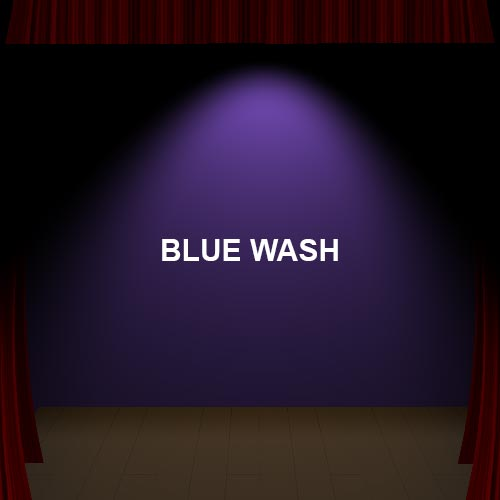
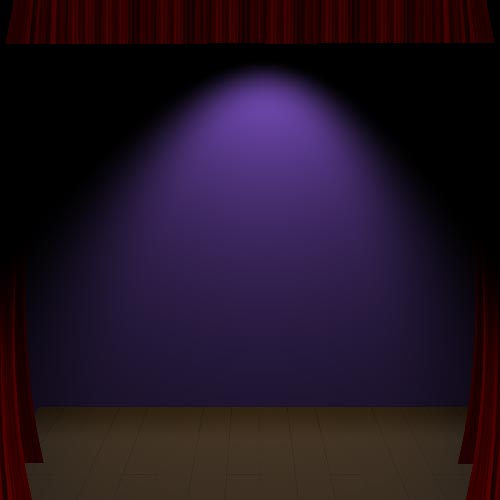
animated gif test
added anim gif as test instead of mp4 video in lfx

Changed region(s): [[0.3, 0.48, 0.69, 0.54]]

diff --git a/index.html b/index.html
@@ -279,11 +279,11 @@
 						<div class="ui-block-b first"><a data-role="button" data-mini="true" data-rel="popup" data-position-to="window" href="#lfx-scroller">Scroller</a></div>
 						
 						<div id="lfx-gobotree" data-role="popup" data-overlay-theme="a"><img src="images/gobotree.jpg" alt="tree" /></div>
-						<div id="lfx-gobochurch" data-role="popup" data-overlay-theme="a"><img src="images/gobochurchwindow.jpg" alt="tree" /></div>
+						<div id="lfx-gobochurch" data-role="popup" data-overlay-theme="a"><img src="images/gobochurchwindows.jpg" alt="tree" /></div>
 						<div id="lfx-gobojail" data-role="popup" data-overlay-theme="a"><img src="images/gobojail.jpg" alt="tree" /></div>
 						<div id="lfx-birdie" data-role="popup" data-overlay-theme="a"><img src="images/birdie.jpg" alt="tree" /></div>
 						<div id="lfx-spotlight" data-role="popup" data-overlay-theme="a"><img src="images/spotlight.jpg" alt="tree" /></div>
-						<div id="lfx-followspot" data-role="popup" data-overlay-theme="a"><img src="images/spotlight.jpg" alt="tree" /></div>
+						<div id="lfx-followspot" data-role="popup" data-overlay-theme="a"><img src="images/followspot.gif" alt="tree" /></div>
 						<div id="lfx-straw" data-role="popup" data-overlay-theme="a"><img src="images/straw.jpg" alt="tree" /></div>
 						<div id="lfx-redwash" data-role="popup" data-overlay-theme="a"><img src="images/red-wash.jpg" alt="tree" /></div>
 						<div id="lfx-bluewash" data-role="popup" data-overlay-theme="a"><img src="images/blue-wash.jpg" alt="tree" /></div>
